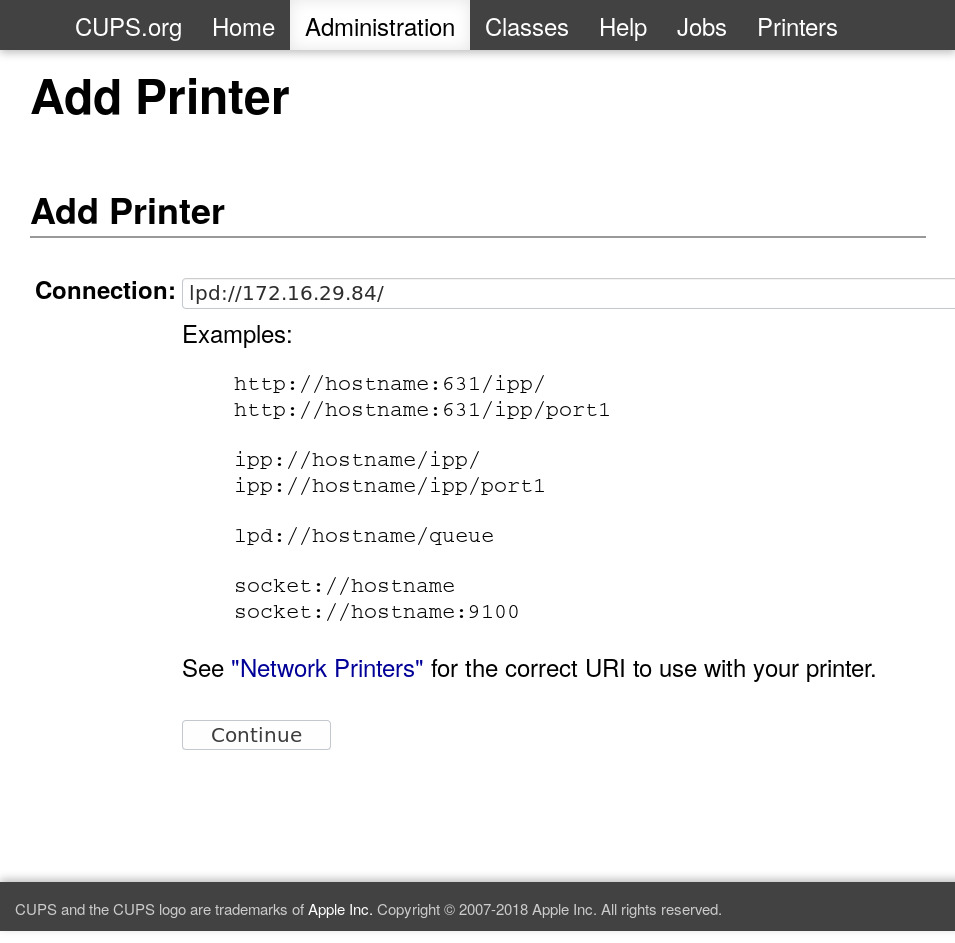
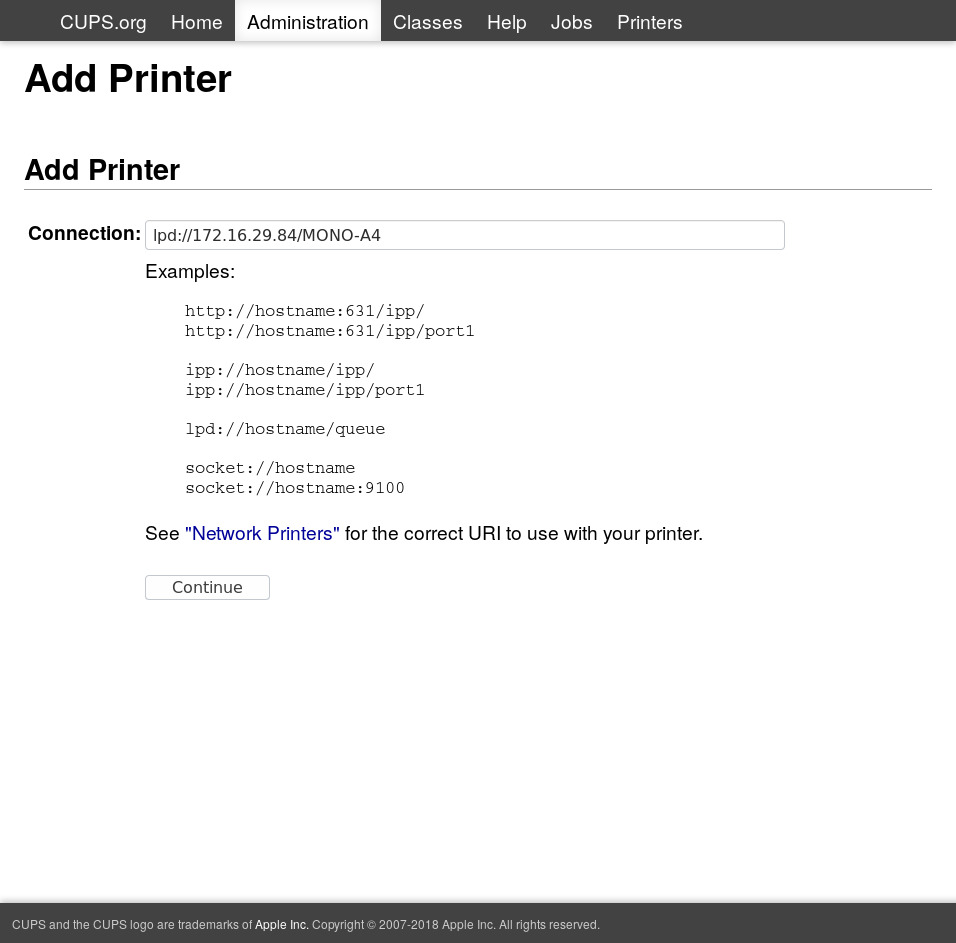
Printer errata: queue determines printer, not name

diff --git a/content/posts/2019-08-13---How-To-Set-Up-Printer-In-Nus-On-Linux.md b/content/posts/2019-08-13---How-To-Set-Up-Printer-In-Nus-On-Linux.md
@@ -62,18 +62,23 @@ As the printer is remotely connected via the same network, we will choose the `L
 
 ![Enter the IP address](/media/cups/cups_lpd_ip.jpg)
 
-In the connection textbox, enter the IP address of the printer prefaced by `lpd://`.
+In the connection textbox, enter the IP address of the printserver and the
+printer queue in the following format:
+```
+lpd://<ip_addr>/<queue>
+```
+
 For Cinnamon College's printers, it happens to be `172.16.29.84` as of writing, so we will
-enter `lpd://172.16.29.84`.
+enter `lpd://172.16.29.84/MONO-A4` for the most used machine.
 
 ![Enter printer name, description and location](/media/cups/cups_printer_name.jpg)
 
-Onto the next page, the **Name** textbox is the most important here. Refer to the MacOS 
-instructions and you will find the name for your printer, such as `MONO-A4`. This will
-determine which printer you set up.
+_Errata: on the previous version of the post, I said the name is
+important but **it is not**. The **queue** determines the printer, whereas
+name is the just the printer name you see when you are at a printing dialog._
 
-For the **description** and **location** columns, you can enter whatever you like to help
-you distinguish between the different printers you add to CUPS.
+For the **name**, **description** and **location** columns, you can enter whatever you like
+to help you distinguish between the different printers you add to CUPS.
 
 ## Step 5: Select a PPD file for your printer
 PostScript Printer Description (PPD) files are instruction sets created by printer vendors
@@ -83,7 +88,7 @@ Refer again to the MacOS setup document, we are told to select a `Generic PostSc
 PPD. Selecting the `Make` as `Generic`, I chose the PPD as below, because it seems to match
 the description the most.
 
-![Select the PPD for your printer](/media/cups/cups_ppd.jpg)
+![Select the PPD for your printer](/media/cups/cups_ppd2.jpg)
 
 When you are done, click Add Printer.
 
@@ -99,4 +104,8 @@ Friendly reminder: set double-sided printing as default to save the earth!!
 
 Voila - now you are done! You can check your newly installed printer at `localhost:631/printers/<PRINTER-NAME>`, which is `localhost:631/printers/MONO-A4` in my case.
 
+![Printer status page](/media/cups/cups_printer_status.jpg)
+
 Hope this guide benefits you.
+
+*Updated 14 Aug 2019*
